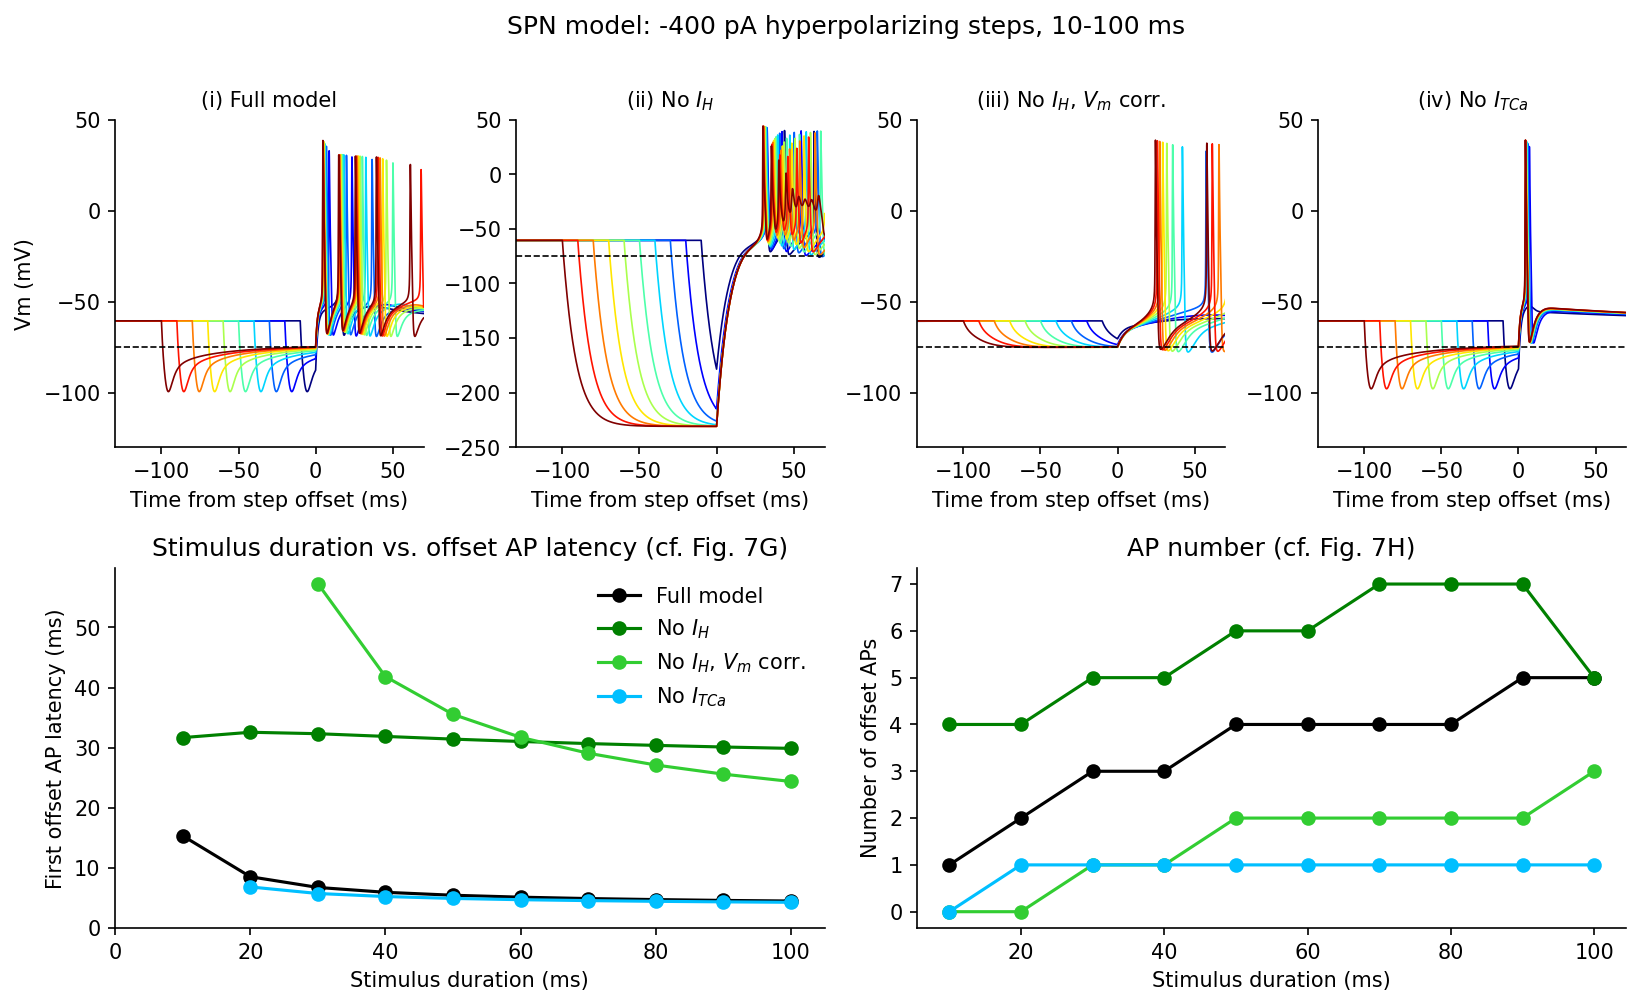
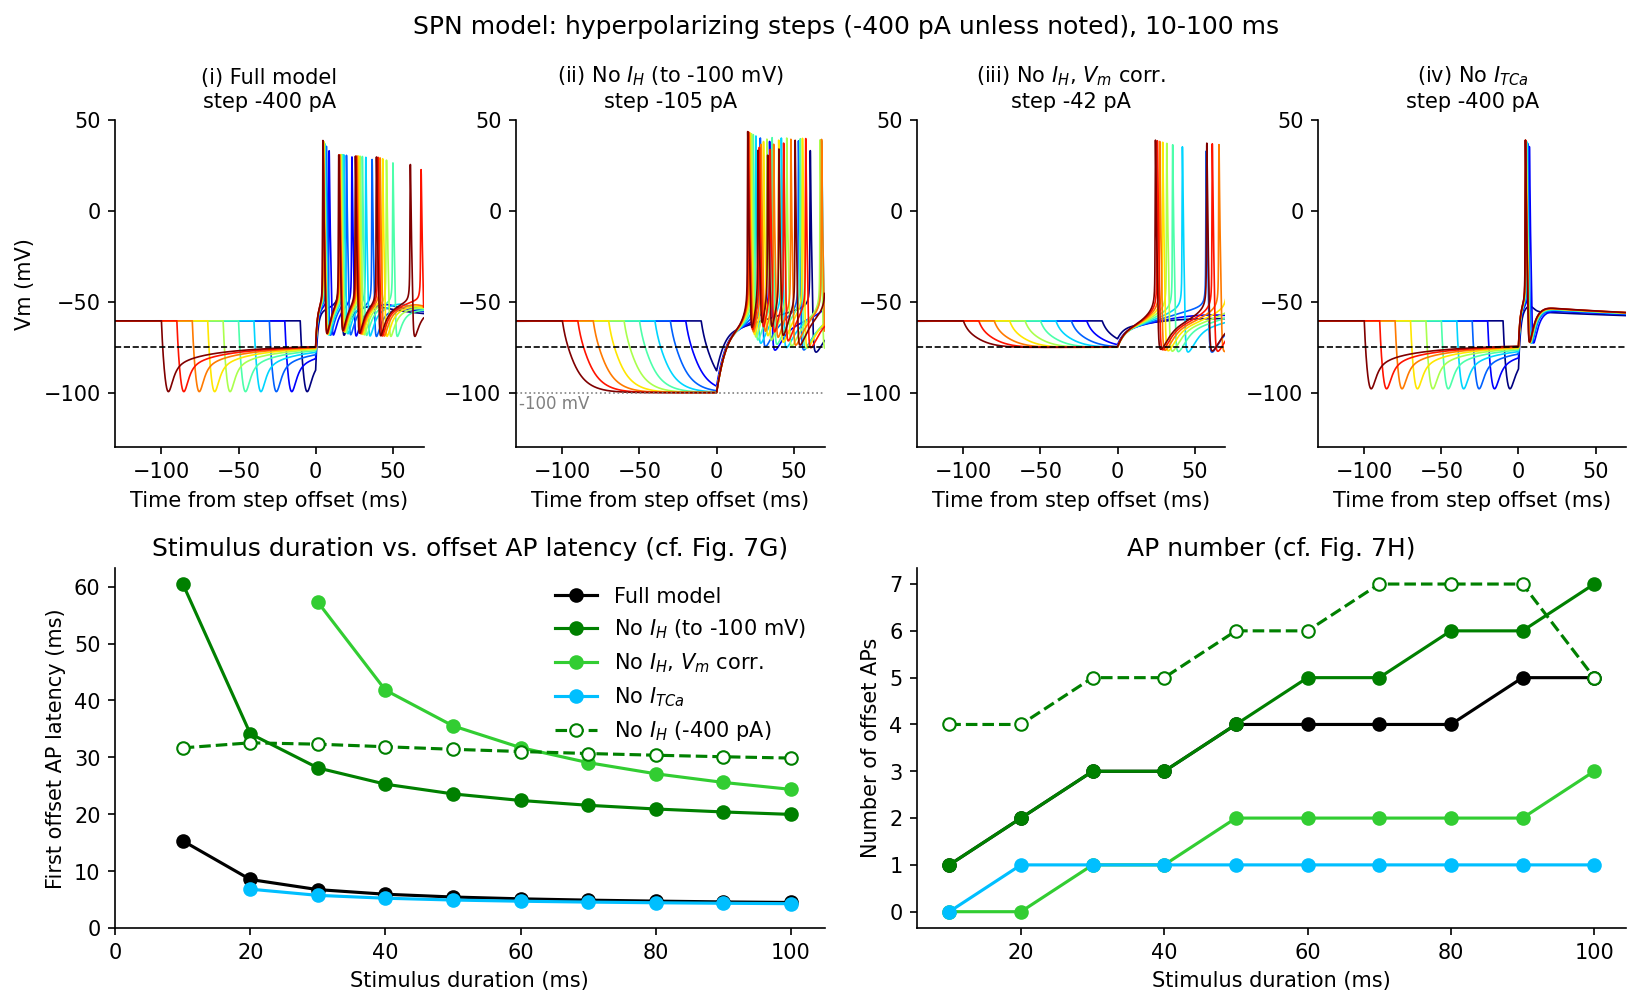
Single stimulus response for all condtion full, no Ih, no ITca, no Ih and ITca

diff --git a/single_stimulus_conditions.py b/single_stimulus_conditions.py
@@ -1,0 +1,250 @@
+"""Single-stimulus comparison of SPN model conditions (cf. Kopp-Scheinpflug
+et al. 2011, Fig. 7F).
+
+One hyperpolarizing current step (100 ms) is applied to four model variants:
+  full model, I_H blocked, I_TCa blocked, I_H + I_TCa blocked.
+Each trace is annotated with resting Vm, peak hyperpolarization, steady-state
+Vm, sag, first offset AP latency and the number of offset APs.
+
+I_H-blocked variants get a constant holding current that restores the full
+model's resting Vm and a reduced step so that Vm settles at -100 mV
+(as in paper Fig. 7Fii); with -400 pA only the leak is left and Vm would reach
+about -230 mV.
+"""
+import os
+import numpy as np
+import matplotlib.pyplot as plt
+from neuron import h
+
+os.chdir(os.path.dirname(os.path.abspath(__file__)))
+h.load_file('stdrun.hoc')
+h.load_file('spn_neuron.hoc')
+seg = h.soma(0.5)
+
+DUR = 100.0           # ms, step duration
+AMP = -0.4            # nA, step for conditions with I_H
+V_NOIH = -100.0       # mV, target steady-state Vm when I_H is blocked
+T_ON = 200.0          # ms, step onset
+T_POST = 150.0        # ms, recorded after step offset
+T_OFF = T_ON + DUR
+AP_THRESH = 0.0       # mV, spike detection
+GH0, GCA0 = seg.sjg_ih.ghbar, seg.lva.gbar
+
+stim = h.IClamp(seg)
+stim.delay, stim.dur = T_ON, DUR
+hold = h.IClamp(seg)
+hold.delay, hold.dur = 0, 1e9
+t_vec = h.Vector().record(h._ref_t)
+v_vec = h.Vector().record(seg._ref_v)
+spikes = h.Vector()
+nc = h.NetCon(seg._ref_v, None, sec=h.soma)
+nc.threshold = AP_THRESH
+nc.record(spikes)
+
+
+def run(amp, hold_amp, tstop=T_OFF + T_POST):
+    stim.amp, hold.amp = amp, hold_amp
+    h.dt = 0.01
+    h.finitialize(-60)
+    h.continuerun(tstop)
+    return np.array(t_vec), np.array(v_vec), np.array(spikes)
+
+
+def v_at(t, v, time):
+    return v[np.searchsorted(t, time)]
+
+
+def bisect(f, target, lo, hi, n=40):
+    """Find x in [lo, hi] with f(x) == target, assuming f increasing in x."""
+    for _ in range(n):
+        mid = 0.5 * (lo + hi)
+        lo, hi = (mid, hi) if f(mid) < target else (lo, mid)
+    return 0.5 * (lo + hi)
+
+
+def set_condition(gh, gca):
+    seg.sjg_ih.ghbar = gh
+    seg.lva.gbar = gca
+
+
+conditions = {
+    'Full model':              dict(gh=GH0, gca=GCA0, color='k'),
+    '$I_H$ blocked':           dict(gh=0.0, gca=GCA0, color='green'),
+    '$I_{TCa}$ blocked':       dict(gh=GH0, gca=0.0, color='deepskyblue'),
+    '$I_H$ + $I_{TCa}$ blocked': dict(gh=0.0, gca=0.0, color='darkorange'),
+}
+
+set_condition(GH0, GCA0)
+t, v, _ = run(0.0, 0.0, T_ON)
+v_rest = v[-1]
+
+# holding current per condition: restore the full model's resting Vm
+# (upper bound keeps the cell below the onset of repetitive firing)
+for name, c in conditions.items():
+    set_condition(c['gh'], c['gca'])
+    c['hold'] = bisect(lambda x: run(0.0, x, T_ON)[1][-1], v_rest, -0.1, 0.12)
+set_condition(GH0, GCA0)
+
+
+def measure(t, v, sp):
+    """Extract rest, peak, steady state, sag, latency, AP threshold, #APs."""
+    during = (t >= T_ON) & (t <= T_OFF)
+    i_min = np.argmin(np.where(during, v, np.inf))
+    sp = sp[sp > T_OFF]
+    m = dict(
+        rest=v_at(t, v, T_ON - 1),
+        vmin=v[i_min], t_min=t[i_min] - T_ON,
+        vss=v_at(t, v, T_OFF - 0.5),
+        n_ap=len(sp),
+        latency=sp[0] - T_OFF if len(sp) else np.nan,
+        isi=np.diff(sp) if len(sp) > 1 else np.array([]),
+    )
+    m['sag'] = m['vss'] - m['vmin']
+    m['rebound'] = v[t > T_OFF].max()
+    if len(sp):
+        # AP threshold: Vm where dV/dt first exceeds 20 mV/ms in the 2 ms
+        # before the 1st AP (excludes the fast repolarization at step offset)
+        dvdt = np.gradient(v, t)
+        k = np.where((t > sp[0] - 2) & (t < sp[0]) & (dvdt > 20))[0][0]
+        m['ap_thr'] = v[k]
+    else:
+        m['ap_thr'] = np.nan
+    return m
+
+
+def simulate(match_v):
+    """Run every condition once. If match_v, I_H-blocked conditions get a
+    reduced step so Vm settles at V_NOIH; otherwise all get AMP."""
+    res = {}
+    for name, c in conditions.items():
+        set_condition(c['gh'], c['gca'])
+        if match_v and c['gh'] == 0:
+            amp = bisect(lambda x: v_at(*run(x, c['hold'], T_OFF)[:2],
+                                        T_OFF - 0.5), V_NOIH, AMP, 0.0)
+        else:
+            amp = AMP
+        t, v, sp = run(amp, c['hold'])
+        res[name] = dict(c, amp=amp, t=t - T_ON, v=v, m=measure(t, v, sp))
+    set_condition(GH0, GCA0)
+    return res
+
+
+def print_table(res, title):
+    hdr = (f'{"condition":26s}{"hold":>7s}{"step":>7s}{"rest":>7s}'
+           f'{"peak":>7s}{"t_pk":>6s}{"Vss":>7s}{"sag":>6s}{"lat":>7s}'
+           f'{"thr":>7s}{"#AP":>5s}')
+    print(f'\n{title}\n{hdr}\n' + '-' * len(hdr))
+    for name, c in res.items():
+        m = c['m']
+        print(f'{name.replace("$", ""):26s}{c["hold"]*1e3:7.0f}'
+              f'{c["amp"]*1e3:7.0f}{m["rest"]:7.1f}{m["vmin"]:7.1f}'
+              f'{m["t_min"]:6.1f}{m["vss"]:7.1f}{m["sag"]:6.1f}'
+              f'{m["latency"]:7.1f}{m["ap_thr"]:7.1f}{m["n_ap"]:5d}')
+    print('units: pA (hold, step), mV (Vm values), ms (t_pk = time of peak '
+          'hyperpolarization after step onset, lat = first AP after step '
+          'offset)')
+
+
+def plot(res, fname, suptitle):
+    # common y-range for all panels so depths are directly comparable
+    vlow = min(c['v'].min() for c in res.values())
+    ybot = min(-110, np.floor(vlow / 10) * 10 - 10)
+
+    fig = plt.figure(figsize=(13, 10))
+    gs = fig.add_gridspec(3, 2, height_ratios=[1, 1, 0.9], hspace=0.45,
+                          wspace=0.2)
+    for i, (name, c) in enumerate(res.items()):
+        ax = fig.add_subplot(gs[i // 2, i % 2])
+        m = c['m']
+        ax.axvspan(0, DUR, color='0.92', zorder=0)
+        ax.text(DUR / 2, 42, f'step {c["amp"]*1e3:.0f} pA', ha='center',
+                fontsize=8, color='0.4')
+        ax.plot(c['t'], c['v'], color=c['color'], lw=1)
+        ax.axhline(m['rest'], ls=':', color='0.5', lw=0.8)
+        ax.text(-48, m['rest'] + 2, f'rest {m["rest"]:.1f} mV', fontsize=8,
+                color='0.4')
+
+        # peak hyperpolarization and steady state
+        ax.plot(DUR - 0.5, m['vss'], 's', color='purple', ms=5)
+        if m['sag'] > 1:
+            ax.plot(m['t_min'], m['vmin'], 'v', color='crimson', ms=6)
+            ax.annotate(f'peak {m["vmin"]:.1f} mV', (m['t_min'], m['vmin']),
+                        xytext=(m['t_min'] + 6, m['vmin'] - 9), fontsize=8,
+                        color='crimson')
+            ax.annotate(f'steady state {m["vss"]:.1f} mV',
+                        (DUR - 0.5, m['vss']),
+                        xytext=(DUR - 80, m['vss'] + 6), fontsize=8,
+                        color='purple')
+            ax.annotate('', (DUR - 2, m['vss']), (DUR - 2, m['vmin']),
+                        arrowprops=dict(arrowstyle='<->', color='purple',
+                                        lw=0.8))
+            ax.text(DUR - 4, (m['vss'] + m['vmin']) / 2 - 3,
+                    f'sag {m["sag"]:.1f} mV', fontsize=8, color='purple',
+                    ha='right', va='center')
+        else:
+            ax.annotate(f'steady state = peak {m["vss"]:.1f} mV\n(no sag)',
+                        (DUR - 0.5, m['vss']),
+                        xytext=(DUR - 90, m['vss'] + 8), fontsize=8,
+                        color='purple')
+
+        # offset response
+        if m['n_ap']:
+            y = 30
+            ax.annotate('', (DUR, y), (DUR + m['latency'], y),
+                        arrowprops=dict(arrowstyle='<->', color='tab:blue',
+                                        lw=0.9, shrinkA=0, shrinkB=0))
+            ax.text(DUR - 2, y, f'latency\n{m["latency"]:.1f} ms',
+                    fontsize=8, color='tab:blue', va='center', ha='right')
+            ax.plot([DUR, DUR + T_POST], [m['ap_thr']] * 2, ls='--',
+                    color='tab:blue', lw=0.6)
+            ax.text(DUR - 2, m['ap_thr'], f'AP thr. {m["ap_thr"]:.0f} mV',
+                    fontsize=8, color='tab:blue', ha='right', va='center')
+            ax.text(DUR + T_POST - 2, ybot + 10, f'{m["n_ap"]} offset AP'
+                    + ('s' if m['n_ap'] > 1 else ''), fontsize=9,
+                    color='tab:blue', ha='right', fontweight='bold')
+        else:
+            ax.text(DUR + T_POST - 2, ybot + 10, f'no offset AP\nrebound '
+                    f'peak {m["rebound"]:.1f} mV', fontsize=9,
+                    color='tab:blue', ha='right', fontweight='bold')
+
+        ax.set_xlim(-50, DUR + T_POST)
+        ax.set_ylim(ybot, 50)
+        ax.set_title(f'({"abcd"[i]}) {name}', loc='left', fontsize=11)
+        ax.set_xlabel('Time from step onset (ms)')
+        ax.set_ylabel('Vm (mV)')
+        ax.spines[['top', 'right']].set_visible(False)
+
+    # overlay of the offset responses
+    ax = fig.add_subplot(gs[2, :])
+    for name, c in res.items():
+        ax.plot(c['t'] - DUR, c['v'], color=c['color'], lw=1.2, label=name)
+        if c['m']['n_ap']:
+            ax.plot(c['m']['latency'], 46, 'v', color=c['color'], ms=7)
+    ax.axvline(0, color='0.5', lw=0.8, ls='--')
+    ax.text(0.5, ybot + 5, 'step offset', fontsize=8, color='0.4')
+    ax.set_xlim(-10, 60)
+    ax.set_ylim(ybot, 50)
+    ax.set_title('(e) Offset responses aligned to step offset '
+                 '(triangles = first AP)', loc='left', fontsize=11)
+    ax.set_xlabel('Time from step offset (ms)')
+    ax.set_ylabel('Vm (mV)')
+    ax.legend(frameon=False, loc='lower right', ncol=2, fontsize=9)
+    ax.spines[['top', 'right']].set_visible(False)
+
+    fig.suptitle(suptitle, fontsize=12)
+    fig.savefig(fname, dpi=150, bbox_inches='tight')
+    print(f'saved {fname}')
+
+
+# Figure 1: I_H-blocked steps reduced so Vm settles at V_NOIH (cf. Fig. 7Fii)
+res = simulate(match_v=True)
+title = (f'single {DUR:.0f} ms step (-400 pA; I_H-blocked: step reduced so '
+         f'Vm settles at {V_NOIH:.0f} mV)')
+print_table(res, title)
+plot(res, 'single_stimulus_conditions.png', f'SPN model: {title}')
+
+# Figure 2: the same -400 pA step for every condition
+res = simulate(match_v=False)
+title = f'single {DUR:.0f} ms step, -400 pA for all conditions'
+print_table(res, title)
+plot(res, 'single_stimulus_conditions_400pA.png', f'SPN model: {title}')

diff --git a/duration_vs_latency.py b/duration_vs_latency.py
@@ -71,11 +71,19 @@ def bisect(f, target, lo, hi, n=40):
 
 
 
+V_NOIH = -100.0       # mV, target trough for panel ii (as in paper Fig. 7Fii)
+NOIH = 'No $I_H$ (to -100 mV)'
+NOIH_RAW = 'No $I_H$ (-400 pA)'
+CORR = 'No $I_H$, $V_m$ corr.'
+
+# 'trace': show voltage traces in the top row; 'ls': line style in bottom plots
 conditions = {
-    'Full model':            dict(gh=GH0, gca=GCA0, color='k'),
-    'No $I_H$':              dict(gh=0.0, gca=GCA0, color='green'),
-    'No $I_H$, $V_m$ corr.': dict(gh=0.0, gca=GCA0, color='limegreen'),
-    'No $I_{TCa}$':          dict(gh=GH0, gca=0.0, color='deepskyblue'),
+    'Full model':  dict(gh=GH0, gca=GCA0, color='k', trace=True, ls='-'),
+    NOIH:          dict(gh=0.0, gca=GCA0, color='green', trace=True, ls='-'),
+    CORR:          dict(gh=0.0, gca=GCA0, color='limegreen', trace=True, ls='-'),
+    'No $I_{TCa}$': dict(gh=GH0, gca=0.0, color='deepskyblue', trace=True,
+                         ls='-'),
+    NOIH_RAW:      dict(gh=0.0, gca=GCA0, color='green', trace=False, ls='--'),
 }
 
 set_condition(GH0, GCA0)
@@ -90,22 +98,28 @@ for name, c in conditions.items():
     c['hold'] = bisect(lambda x: (setattr(hold, 'amp', x), resting_v())[1],
                        v_rest, -0.1, 0.12)
 
-# Vm correction: reduce the step in the no-I_H model so that the steady-state
-# hyperpolarization at the end of a 100 ms step matches the full model.
-c = conditions['No $I_H$, $V_m$ corr.']
+# Without I_H only the 2.26 nS leak remains, so -400 pA drives Vm to ~-230 mV.
+# Two Vm corrections reduce the step in the no-I_H model so the Vm at the end
+# of a 100 ms step reaches (ii) -100 mV, the trough shown in paper Fig. 7Fii,
+# or (iii) the full model's steady-state level (dashed line).
+c = conditions[CORR]
 set_condition(c['gh'], c['gca'])
 hold.amp = c['hold']
-amp_corr = bisect(steady_state_v, v_target, AMP, 0.0)
-print(f'Rest: {v_rest:.1f} mV; full model Vm at end of 100 ms step: '
-      f'{v_target:.1f} mV; no-I_H corrected step: {amp_corr*1e3:.0f} pA')
 for name, c in conditions.items():
-    print(f'  holding current {name:24s}: {c["hold"]*1e3:7.1f} pA')
+    c['amp'] = AMP
+conditions[NOIH]['amp'] = bisect(steady_state_v, V_NOIH, AMP, 0.0)
+conditions[CORR]['amp'] = bisect(steady_state_v, v_target, AMP, 0.0)
+print(f'Rest: {v_rest:.1f} mV; full model Vm at end of 100 ms step: '
+      f'{v_target:.1f} mV')
+for name, c in conditions.items():
+    print(f'  {name:24s} holding {c["hold"]*1e3:6.1f} pA, '
+          f'step {c["amp"]*1e3:6.0f} pA')
 
 results, traces = {}, {}
 for name, c in conditions.items():
     set_condition(c['gh'], c['gca'])
     hold.amp = c['hold']
-    amp = amp_corr if 'corr' in name else AMP
+    amp = c['amp']
     lat, nap, tr = [], [], []
     for d in DURATIONS:
         t, v, sp = run(d, amp)
@@ -123,15 +137,19 @@ set_condition(GH0, GCA0)
 fig = plt.figure(figsize=(13, 7))
 gs = fig.add_gridspec(2, 4, height_ratios=[1, 1.1], hspace=0.35, wspace=0.3)
 cmap = plt.get_cmap('jet')
-for i, name in enumerate(conditions):
+for i, name in enumerate([n for n, c in conditions.items() if c['trace']]):
     ax = fig.add_subplot(gs[0, i])
     for j, (t, v) in enumerate(traces[name]):
         ax.plot(t, v, color=cmap(j / (len(DURATIONS) - 1)), lw=0.8)
     ax.axhline(v_target, ls='--', color='k', lw=0.8)
+    if name == NOIH:
+        ax.axhline(V_NOIH, ls=':', color='gray', lw=0.8)
+        ax.text(-128, V_NOIH - 9, f'{V_NOIH:.0f} mV', fontsize=8,
+                color='gray')
     ax.set_xlim(-130, 70)
-    vmin = min(v.min() for _, v in traces[name])
-    ax.set_ylim(min(-130, np.floor(vmin / 10) * 10 - 10), 50)
-    ax.set_title(f'({"i ii iii iv".split()[i]}) {name}', fontsize=10)
+    ax.set_ylim(-130, 50)
+    ax.set_title(f'({"i ii iii iv".split()[i]}) {name}\n'
+                 f'step {conditions[name]["amp"]*1e3:.0f} pA', fontsize=10)
     ax.set_xlabel('Time from step offset (ms)')
     if i == 0:
         ax.set_ylabel('Vm (mV)')
@@ -140,7 +158,8 @@ for i, name in enumerate(conditions):
 ax = fig.add_subplot(gs[1, :2])
 for name, c in conditions.items():
     lat = results[name][0]
-    ax.plot(DURATIONS, lat, 'o-', color=c['color'], label=name)
+    ax.plot(DURATIONS, lat, 'o', ls=c['ls'], color=c['color'], label=name,
+            mfc='white' if c['ls'] == '--' else c['color'])
 ax.set_xlim(0, 105)
 ax.set_ylim(0, None)
 ax.set_xlabel('Stimulus duration (ms)')
@@ -151,12 +170,14 @@ ax.spines[['top', 'right']].set_visible(False)
 
 ax = fig.add_subplot(gs[1, 2:])
 for name, c in conditions.items():
-    ax.plot(DURATIONS, results[name][1], 'o-', color=c['color'], label=name)
+    ax.plot(DURATIONS, results[name][1], 'o', ls=c['ls'], color=c['color'],
+            label=name, mfc='white' if c['ls'] == '--' else c['color'])
 ax.set_xlabel('Stimulus duration (ms)')
 ax.set_ylabel('Number of offset APs')
 ax.set_title('AP number (cf. Fig. 7H)')
 ax.spines[['top', 'right']].set_visible(False)
 
-fig.suptitle('SPN model: -400 pA hyperpolarizing steps, 10-100 ms')
+fig.suptitle('SPN model: hyperpolarizing steps (-400 pA unless noted), '
+             '10-100 ms')
 fig.savefig('duration_vs_latency.png', dpi=150, bbox_inches='tight')
 print('saved duration_vs_latency.png')
